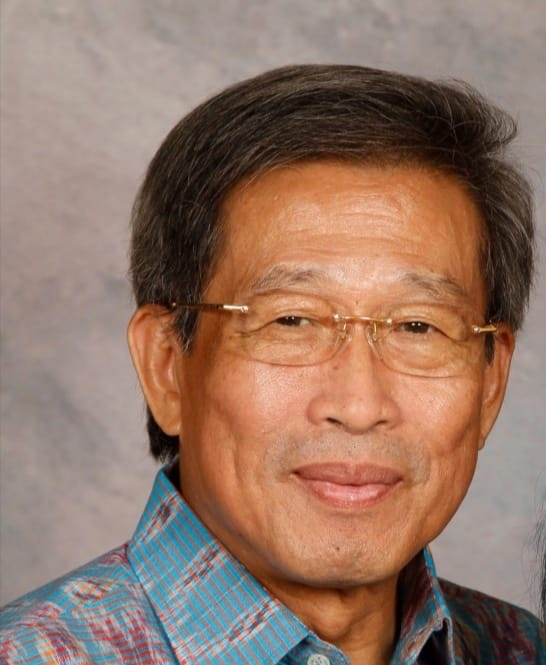
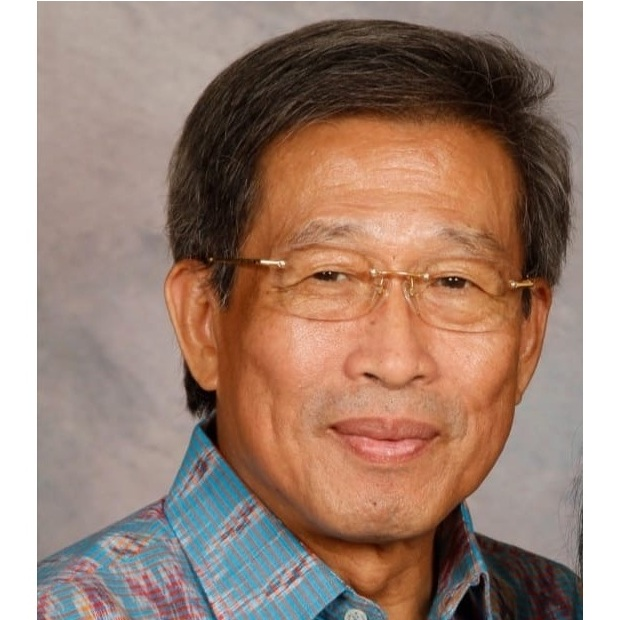
added Andi photo and fixed homepage title issue

diff --git a/content/home/row-1.md b/content/home/row-1.md
@@ -1,9 +1,7 @@
 ---
 ---
 
-Welcome to Mississauga Chess Club's new website! We are always trying to improve the experience of our users. We are currently in the process of moving the old content to the new webpage.
-
-Welcome to Canada's biggest chess club!
+Welcome to the Mississauga Chess Club, Canada's biggest chess club!
 
 **[MCC Expands Member Experience Through New Mobile App](/member-stories/new-mobile-app)**<br>
 **[MCC Adopts New Technology to Streamline Operations 2](/member-stories/new-technology-2)**

diff --git a/content/pages/committee/index.md b/content/pages/committee/index.md
@@ -81,4 +81,6 @@ title: Our Team
 
 {{% image height="250" src="/pics/members/RyanHa.JPG" caption="**Ryan Ha** <br>Webmaster, Friday Pairing" %}}
 
+{{% image height="250" src="/pics/members/AndiTong.png" caption="**Andi Tong** <br>Monday Pairing, Arbiter" %}}
+
 <!-- {{% image height="250" src="/pics/members/VincentWei.jpg" caption="**Vincent Wei** <br>Monday Coach" %}} -->

diff --git a/content/_index.md b/content/_index.md
@@ -1,0 +1,9 @@
+---
+url: /
+title: Home
+description: Mississauga Chess Club, the biggest chess club in Canada
+---
+
+Content here is not used in the home page.
+
+For the home page parts, look in the /content/home directory.
